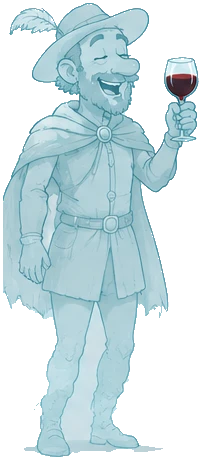
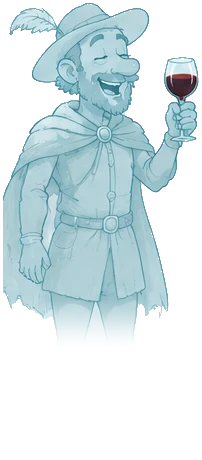
v8: Ángel es «el barbas» (nada de calvo) y Don Xesús sin piernas, como un fantasma

Changed region(s): [[0.1188, 0.6696, 0.802, 1.0], [0.7723, 0.6696, 0.802, 0.7], [0.7129, 0.6696, 0.7426, 0.7]]

diff --git a/js/scenes.js b/js/scenes.js
@@ -279,7 +279,7 @@ async function senoraTalk() {
     await say('senora', 'La bodega de mi abuelo. Dicen que hay un túnel que llega hasta Santo Domingo. Yo no bajo, que hay arañas.');
   } else if (v === 'vida') {
     await say('senora', 'Media vida detrás de esta barra. He visto de todo: bodas, bautizos, reconciliaciones… y a un fraile bailando la muiñeira.');
-    if (S.active === 'angel') { await say('senora', 'Y tú, el de la barba, tienes cara de músico. ¿A que sí?'); await say('angel', 'Canto en un par de grupos… y toco algo la guitarra.', 'sorpresa'); await say('senora', '¡Lo sabía! Manos de guitarrista y ojos de bolero. ¡Ay, si yo tuviera treinta años menos!', 'risa'); }
+    if (S.active === 'angel') { await say('senora', 'Y tú, barbas, tienes cara de músico. ¿A que sí?'); await say('angel', 'Canto en un par de grupos… y toco algo la guitarra.', 'sorpresa'); await say('senora', '¡Lo sabía! Manos de guitarrista y ojos de bolero. ¡Ay, si yo tuviera treinta años menos!', 'risa'); }
   } else if (v === 'nada') {
     await say('senora', 'Si necesitáis algo, me silbáis. ¡Silbar sabéis, ¿no?!', 'risa');
   }
@@ -315,7 +315,7 @@ async function senoraVuelve(pillados) {
   }
   await narr('Trae una bandeja: flan de huevo, tarta de Santiago, filloas con miel… y una copa de helado con barquillo «para el más flaquiño».');
   await say('ramis', 'Señora… ¿se ha ido a su casa a por postres? ¿Por nosotros?', 'sorpresa');
-  await say('senora', 'Es que me habéis caído en gracia. Y ese de la barba está en los huesos de tanto cantar. ¡Come, hombre!');
+  await say('senora', 'Es que me habéis caído en gracia. Y el barbas está en los huesos de tanto cantar. ¡Come, hombre!');
   sfx('trago');
   await say('angel', '…Está buenísimo. Señora, creo que la quiero.', 'risa');
   await say('senora', '¡Ay, calla, que me pongo colorada!', 'risa');
@@ -662,19 +662,19 @@ async function chicaTalk() {
   const id = S.active;
   if (id === 'marc') {
     await say('marc', 'Hola. Soy dibujante. Te dibujaría como Manara: en blanco y negro… y con muy poquita ropa.');
-    await say('chica', '¿Perdona? Tú dibuja, guapo, que yo estoy mirando a tu amigo el de la barba.');
+    await say('chica', '¿Perdona? Tú dibuja, guapo, que yo estoy mirando a tu amigo, el barbas.');
     await say('marc', 'Veinte años de técnica tirados a la basura.', 'sorpresa');
     return;
   }
   if (id === 'ramis') {
     await say('ramis', 'Perdona… ¿te gustan los Porsche? Y otra cosa: esas gafas son de mi amigo.');
-    await say('chica', 'Me gustan los hombres que no hablan de coches. Y las gafas me las quedo hasta que venga a por ellas el de la barba.', 'risa');
+    await say('chica', 'Me gustan los hombres que no hablan de coches. Y las gafas me las quedo hasta que venga a por ellas el barbas.', 'risa');
     await say('ramis', 'Habiendo haber podido… no quise poder.');
     return;
   }
   if (id === 'marcos') {
     await say('marcos', 'Ho… hola. ¿Tú juegas a rol? Es que… nada. ¿Me devuelves las gafas de mi amigo?');
-    await say('chica', '¿Tú eres el que conduce, verdad? Qué mono. Pero yo estoy esperando a que se acerque el de la barba.', 'risa');
+    await say('chica', '¿Tú eres el que conduce, verdad? Qué mono. Pero yo estoy esperando a que se acerque el barbas.', 'risa');
     return;
   }
   // Ángel
@@ -787,7 +787,7 @@ async function fantasmaTalk() {
   if (v === 'q') await say('fantasma', 'Vino y un retraaato. ¡Vino y un retraaato! ¿Tan difícil es, bribones del siglo veintiuno?');
   if (v === 'chus') await say('fantasma', '¿Chus? ¿Un profesor ilustrado que grita «lupanar»? ¡Será descendiente mío! Los grandes hombres tenemos muchos descendientes.', 'risa');
   if (v === 'amor') {
-    await say('fantasma', 'Tú, el calvo de la barba… tienes cara de haber amado a una tal Maje.');
+    await say('fantasma', 'Tú, el barbas… tienes cara de haber amado a una tal Maje.');
     await say('angel', '¿Cómo sabe usted lo de Maje?', 'sorpresa');
     await say('fantasma', 'Los muertos lo sabemos todo. Y los profesores también. ' + (f.beso ? '¡Y esta noche, además, has besado! ¡Albricias, bribón!' : 'Y esta noche hay alguien esperándote en un pub oscuro. Hazme caso.'), 'risa');
   }
@@ -940,7 +940,7 @@ SCENES.alameda = {
 async function meigaTalk() {
   const f = S.flags;
   if (S.active !== 'angel' && !f.meigaPide) {
-    await say('meiga', 'Ti non, rapaz. Que veña o da barba, o calvo. Ese ten o don.');
+    await say('meiga', 'Ti non, rapaz. Que veña o barbas. Ese ten o don.');
     await say(S.active, 'Dice que hable Ángel. Que tiene «el don».');
     return;
   }

diff --git a/js/movida.js b/js/movida.js
@@ -183,7 +183,7 @@ async function carlaTalk() {
   const f = S.flags;
   if (S.scene === 'antro') {
     if (f.concierto) return say('carla', '¡El vídeo de Ángel ya tiene cien mil visitas! «Papá cañero» es tendencia en toda Galicia.', 'risa');
-    return say('carla', 'Dicen que el de la barba canta. Tengo el móvil al cien por cien. Por si acaso.');
+    return say('carla', 'Dicen que el barbas canta. Tengo el móvil al cien por cien. Por si acaso.');
   }
   if (!f.carla1) {
     sfx('foto'); flash('#ffffff', 0.4);
@@ -485,7 +485,7 @@ SCENES.antro = {
     await say('angel', 'Este sitio tiene buena energía. Mirad ese escenario…');
     if (!flag('concierto')) {
       await say('vera', 'Tino, tu cantante sigue en el baño.');
-      await say('tino', 'Pues necesito uno. Ya. …Ese de la barba tiene manos de guitarrista.');
+      await say('tino', 'Pues necesito uno. Ya. …El barbas tiene manos de guitarrista.');
     }
     updObj();
   },
@@ -540,8 +540,8 @@ async function tinoTalk() {
   const f = S.flags;
   if (S.scene !== 'antro') return;
   if (S.active !== 'angel') {
-    if (f.concierto) return say('tino', 'Vuestro amigo el de la barba tiene escenario aquí cuando quiera. Vosotros, la barra.');
-    return say('tino', 'Aquí se habla con música. El de la barba tiene manos de guitarrista… que venga él.');
+    if (f.concierto) return say('tino', 'Vuestro amigo el barbas tiene escenario aquí cuando quiera. Vosotros, la barra.');
+    return say('tino', 'Aquí se habla con música. El barbas tiene manos de guitarrista… que venga él.');
   }
   if (f.concierto) {
     const v = await choose([{ t: '🎸 «Tino, ¿otra canción?»', v: 1 }, { t: '«Nada, Tino, gracias»', v: 0 }]);

diff --git a/js/main.js b/js/main.js
@@ -1,6 +1,6 @@
 'use strict';
 /* Arranque: carga, portada, menú y partida */
-const VERSION = 'v7';
+const VERSION = 'v8';
 const FINAL_SCENES = ['control', 'camino', 'balneario', 'piscina'];
 
 function titleMode() {
